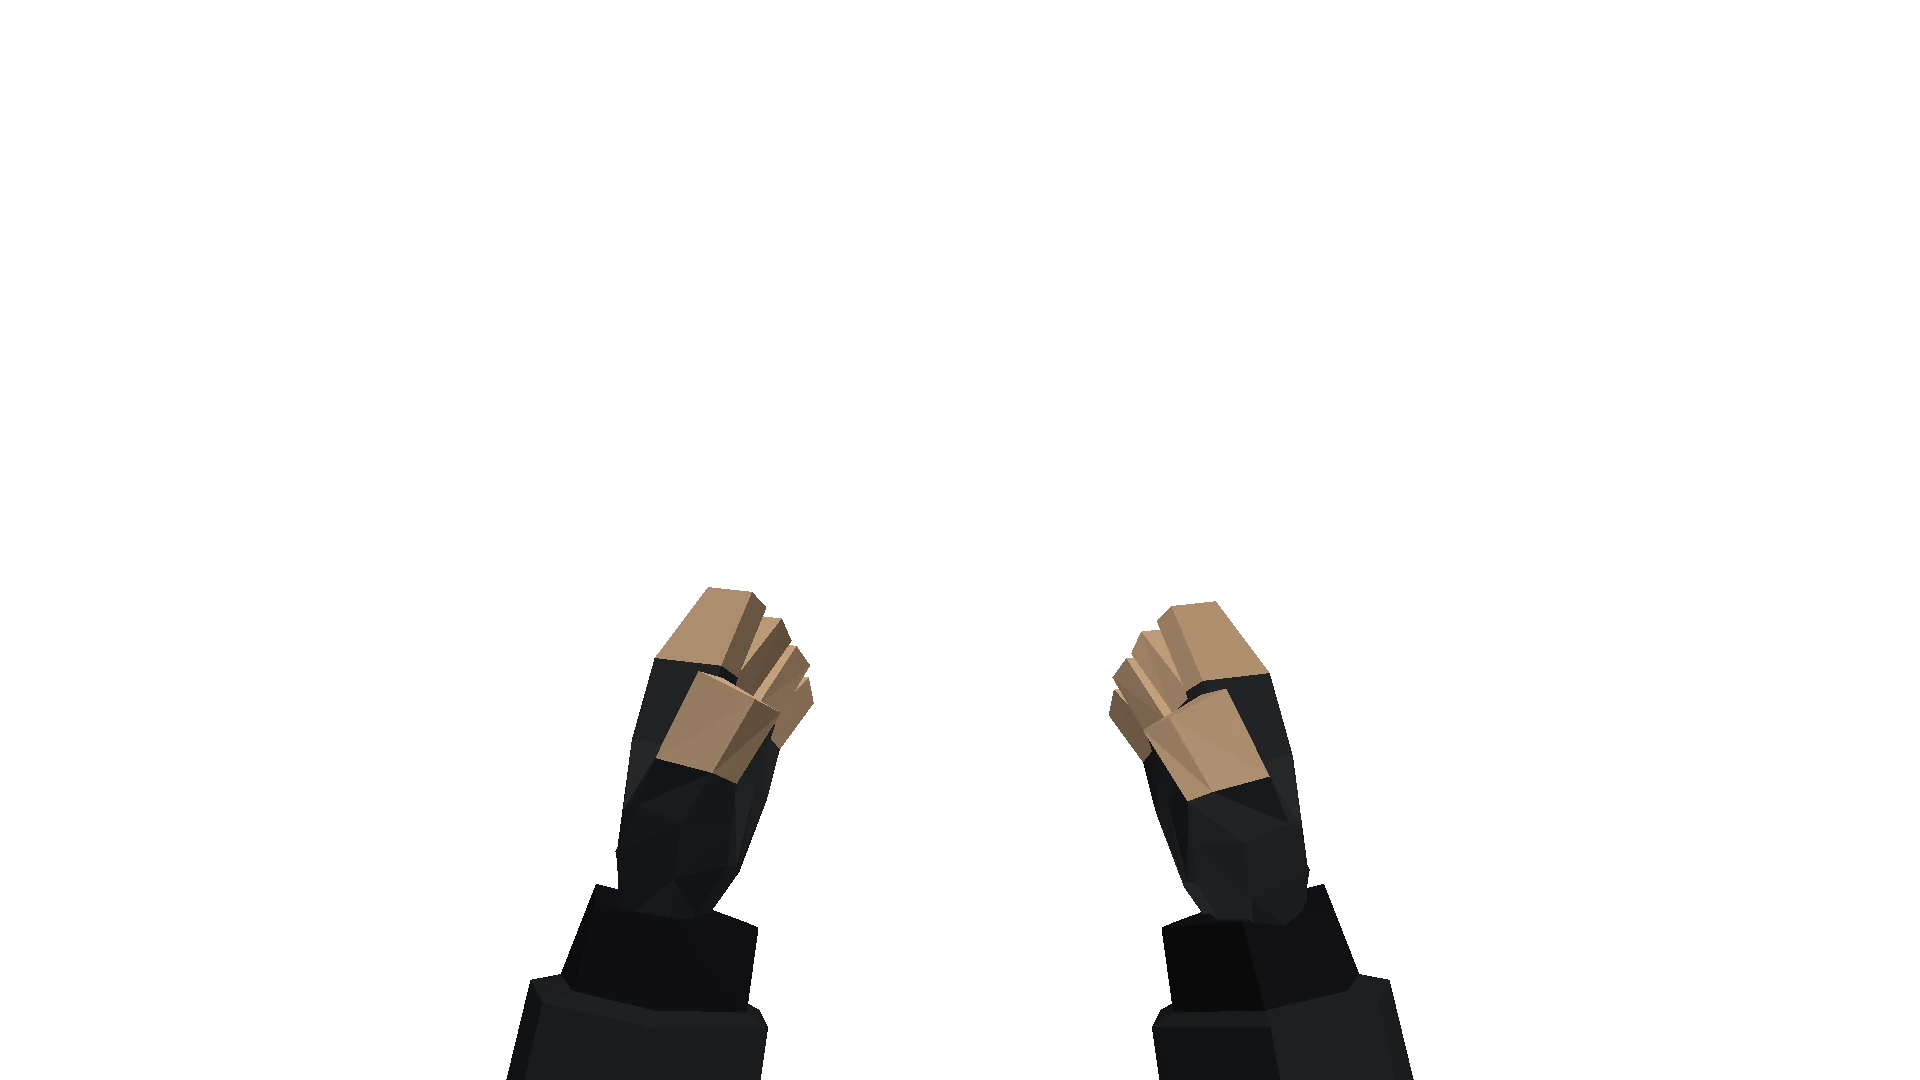
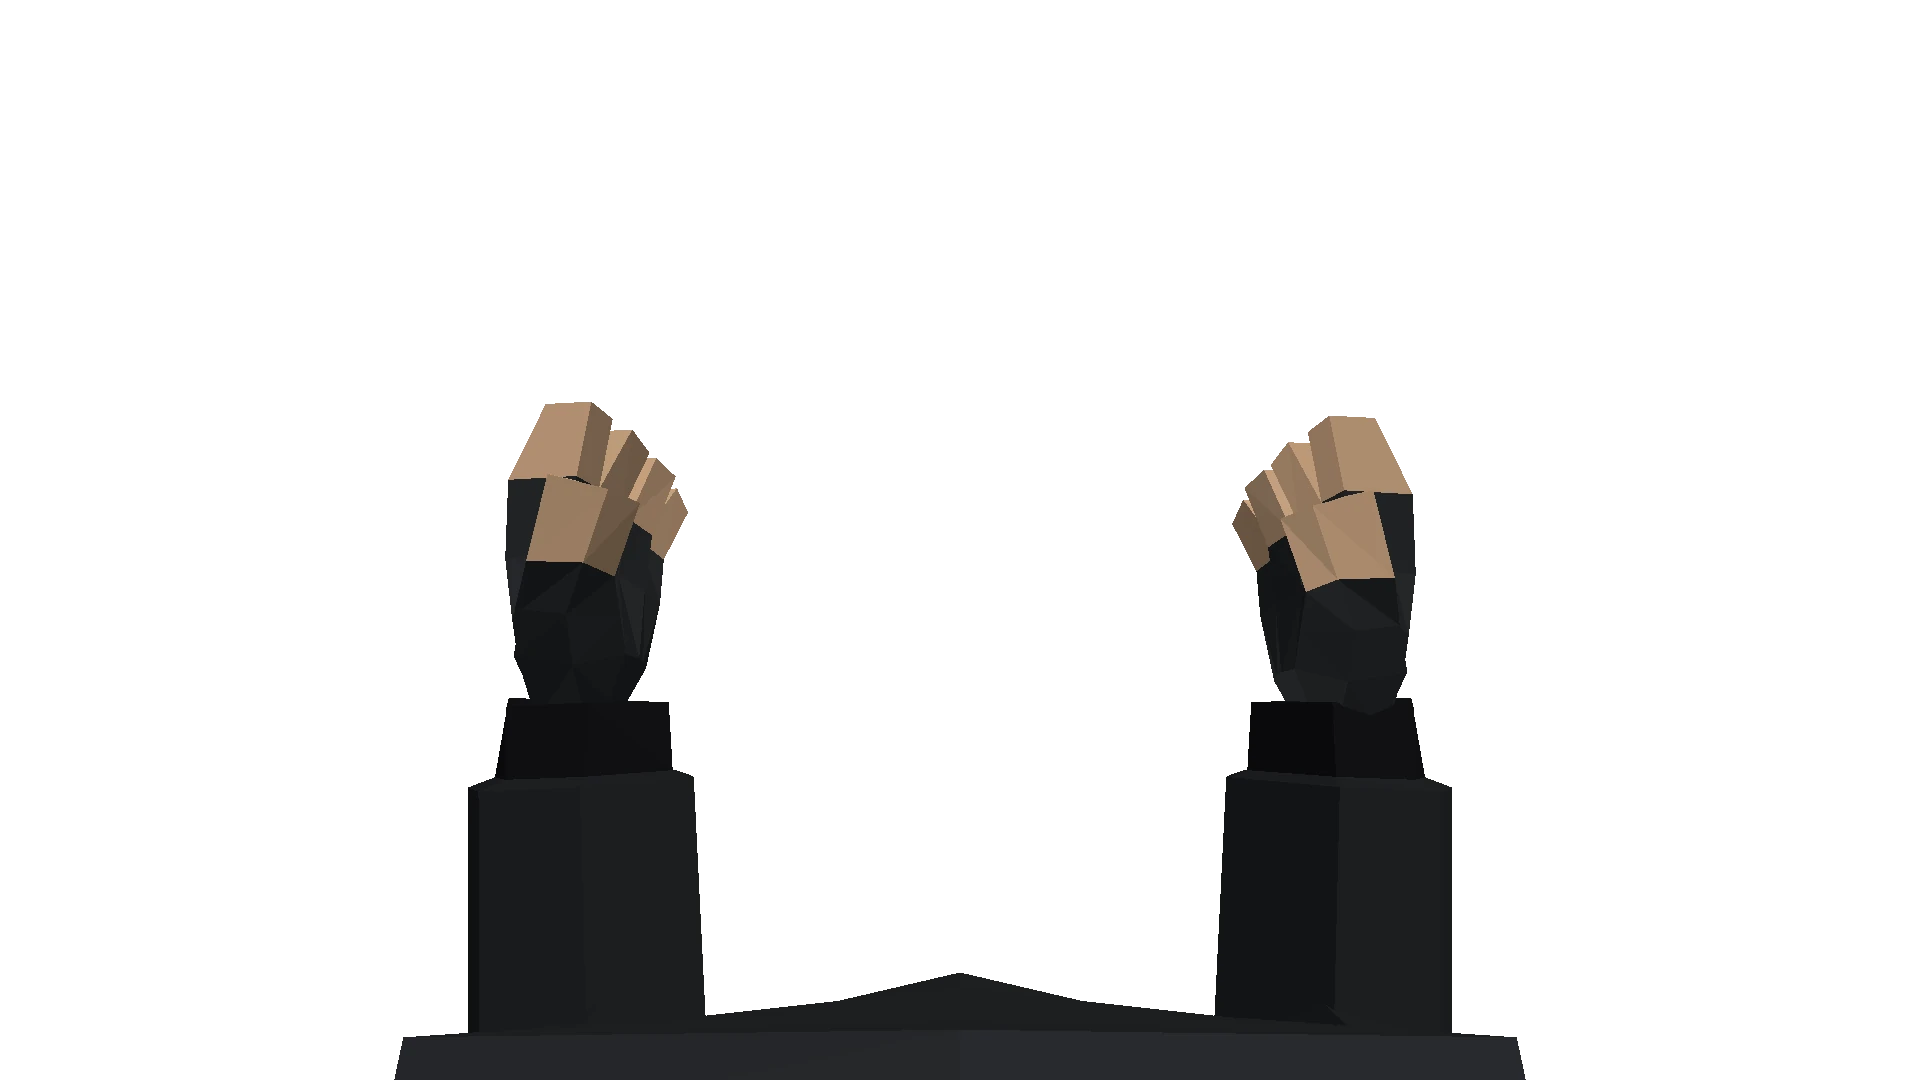
fix: zoom works again; ultrawide tablet held by its sides; status line instead of top buttons
- Zoom: the put-away tablet's home screen still caught the mouse over the
  middle of the view, eating the wheel and clicks. Nothing of the tablet takes
  pointer events now unless it is up.
- Ultrawide tablet (21:9): only the plain middle of the device stretches
  (scripts/widen.py), so corners, LEDs and side buttons keep their shape; the
  in-hand model matches, 0.41 m wide.
- The commander holds it by its sides: his hands at the edges behind it,
  nothing over the front (the fingers layer is gone).
- The top bar's buttons are gone (the side buttons do it all); a status line
  shows the page and the order manner. Comms page no longer scrolls sideways.

Claude-Session: https://claude.ai/code/session_0161ezvjReexY5uDEt8cannB

Changed region(s): [[0.1875, 0.3667, 0.8125, 1.0]]

diff --git a/web/index.html b/web/index.html
@@ -71,29 +71,34 @@
   @keyframes upd-sweep { 0%, 55% { left: -60%; } 100% { left: 130%; } }
   /* The commander's tablet: the rugged PDA in his hands. The game's camera dives onto it (see the viewer), then
      this close-up takes over: the device render as the frame, our UI inside its screen, its side buttons live. */
-  #tablet { position: fixed; left: 50%; top: 47%; width: min(70vw, calc(76vh * 1600 / 1139)); aspect-ratio: 1600 / 1139;
+  #tablet { position: fixed; left: 50%; top: 45%; width: min(84vw, calc(60vh * 2658 / 1139)); aspect-ratio: 2658 / 1139;
     z-index: 30; pointer-events: none; opacity: 0; transform: translate(-50%, -46%) scale(0.72) rotateX(28deg);
     transition: opacity 0.3s ease, transform 0.42s cubic-bezier(0.2, 0.8, 0.2, 1); }
+  /* Put away, nothing of it may catch the mouse: it would eat the field's zoom and clicks. */
+  #tablet:not(.up), #tablet:not(.up) * { pointer-events: none !important; }
+  #tablet:not(.up) .display { visibility: hidden; }
   #tablet.up { opacity: 1; transform: translate(-50%, -50%) scale(1) rotateX(0deg); }
   /* What the commander sees around the tablet: his arms and body behind it, his fingers over its frame. Rendered
      from his eyes (scripts/first_person.py), placed so the tablet in that view lands exactly on this box. */
-  #tablet .fp { position: absolute; width: 322.638%; height: 255.368%; left: -111.319%; top: -77.568%; max-width: none;
+  #tablet .fp { position: absolute; width: 239.991%; height: 335.194%; left: -69.996%; top: -115.512%; max-width: none;
     pointer-events: none; user-select: none; }
-  #tablet .fp.front { z-index: 2; }
   #tablet .device { position: absolute; inset: 0; width: 100%; height: 100%; user-select: none; -webkit-user-drag: none;
     filter: drop-shadow(0 18px 40px rgba(0,0,0,0.65)); }
-  #tablet .display { position: absolute; left: 14.19%; top: 11.94%; width: 72%; height: 75.77%; overflow: hidden;
+  #tablet .display { position: absolute; left: 8.542%; top: 11.94%; width: 83.145%; height: 75.77%; overflow: hidden;
     border-radius: 3px; background: #0b0f13; box-shadow: inset 0 0 18px rgba(120, 200, 140, 0.08); opacity: 0; transition: opacity 0.25s ease 0.25s; }
   #tablet.up .display { opacity: 1; pointer-events: auto; }
-  #tablet .hw { z-index: 3; position: absolute; left: 88.6%; width: 5.6%; height: 6.6%; border: 0; border-radius: 22%; background: transparent; cursor: pointer; pointer-events: auto; }
+  #tablet .hw { z-index: 3; position: absolute; left: 93.138%; width: 3.371%; height: 6.6%; border: 0; border-radius: 22%; background: transparent; cursor: pointer; pointer-events: auto; }
   #tablet .hw:hover { box-shadow: 0 0 0 2px rgba(150, 220, 160, 0.55); }
   #tablet .hw:active { background: rgba(0,0,0,0.25); }
-  #tablet .menu { position: absolute; left: 8px; right: 8px; top: 6px; height: 28px; display: flex; gap: 6px; align-items: center; pointer-events: auto; }
+  #tablet .menu button { display: none; }
+  #tablet .menu .status { color: #9fb3c8; letter-spacing: 0.12em; }
+  #tablet .menu .status b { color: #e2b84a; font-weight: normal; }
+  #tablet .menu { position: absolute; left: 8px; right: 8px; top: 4px; height: 22px; display: flex; gap: 6px; align-items: center; pointer-events: auto; }
   #tablet .menu button { background: #262b31; color: #c9d1db; border: 1px solid #39414b; border-radius: 4px; padding: 4px 14px; font: inherit; cursor: pointer; letter-spacing: 0.06em; }
   #tablet .menu button.on { background: #3b4a5c; color: #fff; border-color: #6d8fb3; }
   #tablet .menu .spacer { flex: 1; }
   #tablet .menu .brand { color: #c0392b; font-weight: bold; letter-spacing: 0.15em; margin-right: 8px; }
-  #tablet .screen { position: absolute; left: 6px; right: 6px; top: 40px; bottom: 6px; border-radius: 3px; overflow: hidden; }
+  #tablet .screen { position: absolute; left: 6px; right: 6px; top: 28px; bottom: 6px; border-radius: 3px; overflow: hidden; }
   #tablet .screen.map { pointer-events: auto; background: #05070a; }
   #mapCanvas { width: 100%; height: 100%; display: block; cursor: grab; touch-action: none; }
   #home h2 { margin: 0 0 14px; font-size: 18px; letter-spacing: 0.08em; }
@@ -104,14 +109,15 @@
   #home .apps { display: flex; gap: 14px; }
   #home .apps button { flex: 1; padding: 22px 10px; background: #18212b; color: #dfe7f0; border: 1px solid #34414f; border-radius: 8px; font: inherit; font-size: 15px; letter-spacing: 0.1em; cursor: pointer; }
   #home .apps button:hover { background: #22303f; }
-  #tablet .screen.page { background: #0f1317; pointer-events: auto; padding: 16px 20px; overflow: auto; }
+  #tablet .screen.page { background: #0f1317; pointer-events: auto; padding: 16px 20px; overflow: hidden auto; box-sizing: border-box; }
   #tablet .hint { position: absolute; right: 10px; bottom: 8px; color: #9fb3c8; background: rgba(8, 12, 16, 0.7); padding: 4px 8px; border-radius: 4px; }
   #roster table { border-collapse: collapse; width: 100%; }
   #roster th, #roster td { text-align: left; padding: 6px 10px; border-bottom: 1px solid #222a33; }
   #roster tr.unit { cursor: pointer; }
   #roster tr.unit:hover { background: #18212b; }
   #roster tr.sel { background: #2b3a4f; }
-  #comms .channels { display: flex; gap: 18px; }
+  #comms .channels { display: flex; gap: 18px; flex-wrap: wrap; }
+  #comms .channels .box { flex: 1 1 200px; min-width: 0; }
   #comms .box { border: 1px solid #263039; padding: 10px; border-radius: 4px; min-width: 220px; }
   #comms button { background: #1d242c; color: #7f8b98; border: 1px solid #2f3845; padding: 4px 10px; margin: 3px 0; font: inherit; }
   #fieldHint { position: fixed; bottom: 10px; left: 50%; transform: translateX(-50%); color: #9aa6b4; background: rgba(10,12,16,0.7); padding: 4px 10px; border: 1px solid #2a313c; }
@@ -214,6 +220,7 @@
     <button data-page="map">MAP</button>
     <button data-page="roster">ROSTER</button>
     <button data-page="comms">COMMS HUB</button>
+    <span class="status" id="pdaStatus"></span>
     <span class="spacer"></span>
     <button id="mCalm" class="on" title="Orders are carried out calmly">CALM</button>
     <button id="mAggr" title="Orders are carried out aggressively">AGGRESSIVE</button>
@@ -232,7 +239,6 @@
     <p style="color:#7f8b98">Coming once the basic systems are in.</p>
   </div>
 </div>
-  <img class="fp front" src="./img/fp_front.webp" alt="" draggable="false">
 </div>
 <div id="update" hidden><span class="sig"></span><span class="txt"><span class="ttl">UPDATE RECEIVED</span><span class="sub" id="update-sub">A new build is ready for deployment.</span></span><button id="update-reload">REDEPLOY</button><button id="update-close" title="Later">✕</button></div>
 <script type="module" src="./game.js"></script>

diff --git a/web/game.js b/web/game.js
@@ -171,6 +171,8 @@ try {
   // the roster lists the units, the comms hub is a placeholder for talking to other commanders.
   let tabletUp = false, page = 'home';
   const tablet = $('tablet');
+  const PAGE_NAME = { home: 'HOME', map: 'MAP', roster: 'ROSTER', comms: 'COMMS HUB' };
+  const pdaStatus = () => { $('pdaStatus').innerHTML = `${PAGE_NAME[page] || ''} · ORDERS <b>${manner === 1 ? 'AGGRESSIVE' : 'CALM'}</b>`; };
   const setPage = (p) => {
     page = p;
     for (const b of tablet.querySelectorAll('[data-page]')) b.classList.toggle('on', b.dataset.page === p);
@@ -181,6 +183,7 @@ try {
     $('roster').hidden = p !== 'roster';
     $('comms').hidden = p !== 'comms';
     if (p === 'roster') drawRoster();
+    try { pdaStatus(); } catch (_) { /* before the manner exists */ }
   };
   // Tab: the commander raises the tablet. The camera rises above him, holds, then dives onto his hands (the
   // viewer animates it); once it arrives the close-up takes over. Putting it away reverses that.
@@ -414,7 +417,7 @@ try {
   for (const b of tablet.querySelectorAll('[data-page]')) b.addEventListener('click', () => setPage(b.dataset.page));
   $('tabletClose').addEventListener('click', () => setTablet(false));
   let manner = 0;
-  const setManner = (m) => { manner = m; v.set_manner(m); $('mCalm').classList.toggle('on', m === 0); $('mAggr').classList.toggle('on', m === 1); };
+  const setManner = (m) => { manner = m; pdaStatus(); v.set_manner(m); $('mCalm').classList.toggle('on', m === 0); $('mAggr').classList.toggle('on', m === 1); };
   $('mCalm').addEventListener('click', () => setManner(0));
   $('mAggr').addEventListener('click', () => setManner(1));
   // Pages keep up with the units while open: redrawn only when something changed, and never while a picker is open

diff --git a/scripts/widen.py b/scripts/widen.py
@@ -1,0 +1,59 @@
+"""Makes the tablet ultrawide: stretches only its plain middle (between the corner bumpers), so the corners, LEDs
+and side buttons keep their shape. Works on the face-on image and on the in-hand mesh alike.
+
+Usage: python3 -I scripts/widen.py image in.png out.webp aspect
+       python3 -I scripts/widen.py mesh in.fig out.fig aspect scale
+"""
+import struct, sys
+import numpy as np
+from PIL import Image
+
+SLICE = (0.34, 0.66)  # the stretchable middle, as fractions of the image width
+
+
+def main():
+    mode = sys.argv[1]
+    if mode == 'image':
+        src, out, aspect = sys.argv[2], sys.argv[3], float(sys.argv[4])
+        im = Image.open(src)
+        w, h = im.size
+        a, b = int(w * SLICE[0]), int(w * SLICE[1])
+        nw = int(round(h * aspect))
+        mid = nw - a - (w - b)
+        wide = Image.new('RGBA', (nw, h))
+        wide.paste(im.crop((0, 0, a, h)), (0, 0))
+        wide.paste(im.crop((a, 0, b, h)).resize((mid, h), Image.LANCZOS), (a, 0))
+        wide.paste(im.crop((b, 0, w, h)), (a + mid, 0))
+        wide.save(out, 'WEBP', quality=90, method=6)
+        # Where an x fraction of the original lands in the wide one.
+        def map_x(f):
+            px = f * w
+            if px <= a: return px / nw
+            if px >= b: return (a + mid + px - b) / nw
+            return (a + (px - a) * mid / (b - a)) / nw
+        print(f'size {nw}x{h} k {mid / (b - a):.4f}')
+        for name, f in [('screen left', 0.1419), ('screen right', 0.8619), ('buttons left', 0.886), ('buttons right', 0.942)]:
+            print(f'{name}: {map_x(f) * 100:.3f}%')
+    else:
+        src, out, aspect, scale = sys.argv[2], sys.argv[3], float(sys.argv[4]), float(sys.argv[5])
+        d = np.frombuffer(open(src, 'rb').read(), np.float32).reshape(-1, 4).astype(float)
+        lo, hi = d[:, :3].min(0), d[:, :3].max(0)
+        w, h = hi[0] - lo[0], hi[1] - lo[1]
+        # Same stretch as the image: the image is the model plus 2% margins of its width (glb_render_front).
+        full = w / 0.96
+        x0 = lo[0] - full * 0.02
+        a, b = x0 + full * SLICE[0], x0 + full * SLICE[1]
+        img_h = h + full * 0.04
+        target_w = img_h * aspect
+        k = (target_w - full * (1 - (SLICE[1] - SLICE[0]))) / (full * (SLICE[1] - SLICE[0]))
+        x = d[:, 0]
+        nx = np.where(x <= a, x - (b - a) * (k - 1) / 2, np.where(x >= b, x + (b - a) * (k - 1) / 2, (x - (a + b) / 2) * k))
+        d[:, 0] = nx
+        d[:, :3] *= scale
+        with open(out, 'wb') as f:
+            for row in d:
+                f.write(struct.pack('<4f', *row))
+        print('k', round(k, 4), 'size', (d[:, :3].max(0) - d[:, :3].min(0)).round(3))
+
+
+main()

diff --git a/scripts/first_person.py b/scripts/first_person.py
@@ -12,8 +12,11 @@ from PIL import Image
 W, H = 1920, 1080
 HFOV = np.radians(100.0)
 EYE = np.array([0.0, 0.16, 1.57])
-TABLET_AT = np.array([0.0, 0.437, 1.249])
+TABLET_AT = np.array([0.0, 0.375, 1.19])
 TILT = 0.85
+# The ultrawide tablet image (scripts/widen.py): width and margin in pixels, the display's span across it.
+IMG_W_PX, IMG_MARGIN_PX = 2658, 32
+SCREEN_X = (0.08542, 0.91687)  # (no longer used for a front layer; kept for reference)
 # Palette (gpu.rs PALETTE), with the commander's recolouring (viewer.rs commander_figure) and his red armband.
 PAL = [[0.10, 0.12, 0.15], [0.42, 0.46, 0.52], [0.55, 0.58, 0.60], [0.30, 0.33, 0.38], [0.72, 0.58, 0.20],
        [0.80, 0.35, 0.15], [0.25, 0.50, 0.70], [0.30, 0.62, 0.40], [0.90, 0.88, 0.80], [0.60, 0.20, 0.20],
@@ -94,17 +97,16 @@ def main():
         rgb[y0:y1 + 1, x0:x1 + 1][win] = col
         alpha[y0:y1 + 1, x0:x1 + 1][win] = 1.0
     front = alpha * (depth < z_plane - 0.004)
-    # Tablet image extent (glb_render_front: the model fills 96% of the width, 2% margins all round).
+    # Tablet image extent: the model plus a margin of IMG_MARGIN_PX pixels all round (glb_render_front, widen).
     pd = np.frombuffer(open(pda, 'rb').read(), np.float32).reshape(-1, 4)[:, :3].astype(float)
     lo, hi = pd.min(0), pd.max(0)
     width = hi[0] - lo[0]
-    mx = width / 0.96 * 0.02
+    mx = width * IMG_MARGIN_PX / (IMG_W_PX - 2 * IMG_MARGIN_PX)
     corners = [(lo[0] - mx, hi[1] + mx), (hi[0] + mx, hi[1] + mx), (hi[0] + mx, lo[1] - mx), (lo[0] - mx, lo[1] - mx)]
     pts = np.array([project(TABLET_AT + R * a + U * b, cam) for a, b in corners])
     bx0, by0, bx1, by1 = pts[:, 0].min(), pts[:, 1].min(), pts[:, 0].max(), pts[:, 1].max()
-    # Fingers may lie over the frame, never over the display (glb_render_front measured it: 14.19-86.19% across,
-    # 11.94-87.71% down the tablet image).
-    sx0, sx1 = bx0 + 0.1419 * (bx1 - bx0), bx0 + 0.8619 * (bx1 - bx0)
+    # Fingers may lie over the frame, never over the display.
+    sx0, sx1 = bx0 + SCREEN_X[0] * (bx1 - bx0), bx0 + SCREEN_X[1] * (bx1 - bx0)
     sy0, sy1 = by0 + 0.1194 * (by1 - by0), by0 + 0.8771 * (by1 - by0)
     on_screen = (gx >= sx0) & (gx <= sx1) & (gy >= sy0) & (gy <= sy1)
     front = front * ~on_screen

diff --git a/crates/scalia-render/src/pose.rs b/crates/scalia-render/src/pose.rs
@@ -38,7 +38,7 @@ pub enum Pose {
 }
 
 /// Where the tablet sits between the hands in the tablet pose (figure frame, metres).
-pub const TABLET_AT: Vec3 = Vec3::new(0.0, 0.437, 1.249);
+pub const TABLET_AT: Vec3 = Vec3::new(0.0, 0.375, 1.19);
 /// How far the tablet's face tilts back towards the face (radians from upright).
 pub const TABLET_TILT: f32 = 0.85;
 
@@ -197,7 +197,7 @@ pub fn params(pose: Pose, phase: f32) -> PoseParams {
         Pose::Tablet => {
             p.shoulder = [0.35, 0.35];
             p.elbow = [1.5, 1.5];
-            p.reach = [0.13, 0.13];
+            p.reach = [-0.07, -0.07];
             p.head = -0.45;
             p.sling = 1.0;
         }

diff --git a/crates/scalia-render/tests/pose.rs b/crates/scalia-render/tests/pose.rs
@@ -267,7 +267,7 @@ fn the_tablet_pose_holds_it_in_both_hands_at_the_chest() {
     for side in [Side::Left, Side::Right] {
         let h = hand(&pp, side);
         assert!((0.25..0.45).contains(&h.y) && (1.05..1.3).contains(&h.z), "{side:?} hand at {h:?}");
-        assert!((0.08..0.2).contains(&h.x.abs()), "{side:?} hand at {h:?}");
+        assert!((0.08..0.3).contains(&h.x.abs()), "{side:?} hand at {h:?}");
         // The tablet sits between the hands.
         assert!((h.y - TABLET_AT.y).abs() < 0.08 && (h.z - TABLET_AT.z).abs() < 0.08, "{side:?} hand {h:?} vs tablet {TABLET_AT:?}");
     }

diff --git a/crates/scalia-render/tests/mesh.rs b/crates/scalia-render/tests/mesh.rs
@@ -108,7 +108,8 @@ fn the_tablet_sits_between_the_hands_facing_the_holder() {
     let pp = params(Pose::Tablet, 0.0);
     for side in [Side::Left, Side::Right] {
         let h = hand(&pp, side);
-        assert!((h.x.abs() - hi.x).abs() < 0.06, "{side:?} hand {h:?} on the edge {}", hi.x);
+        // Holding it by the sides: the hand just outside the edge.
+        assert!((0.0..0.08).contains(&(h.x.abs() - hi.x)), "{side:?} hand {h:?} at the edge {}", hi.x);
     }
     // Tilted back: its far edge higher than its near edge.
     assert!(hi.z - lo.z > 0.1 && hi.y - lo.y > 0.1);
